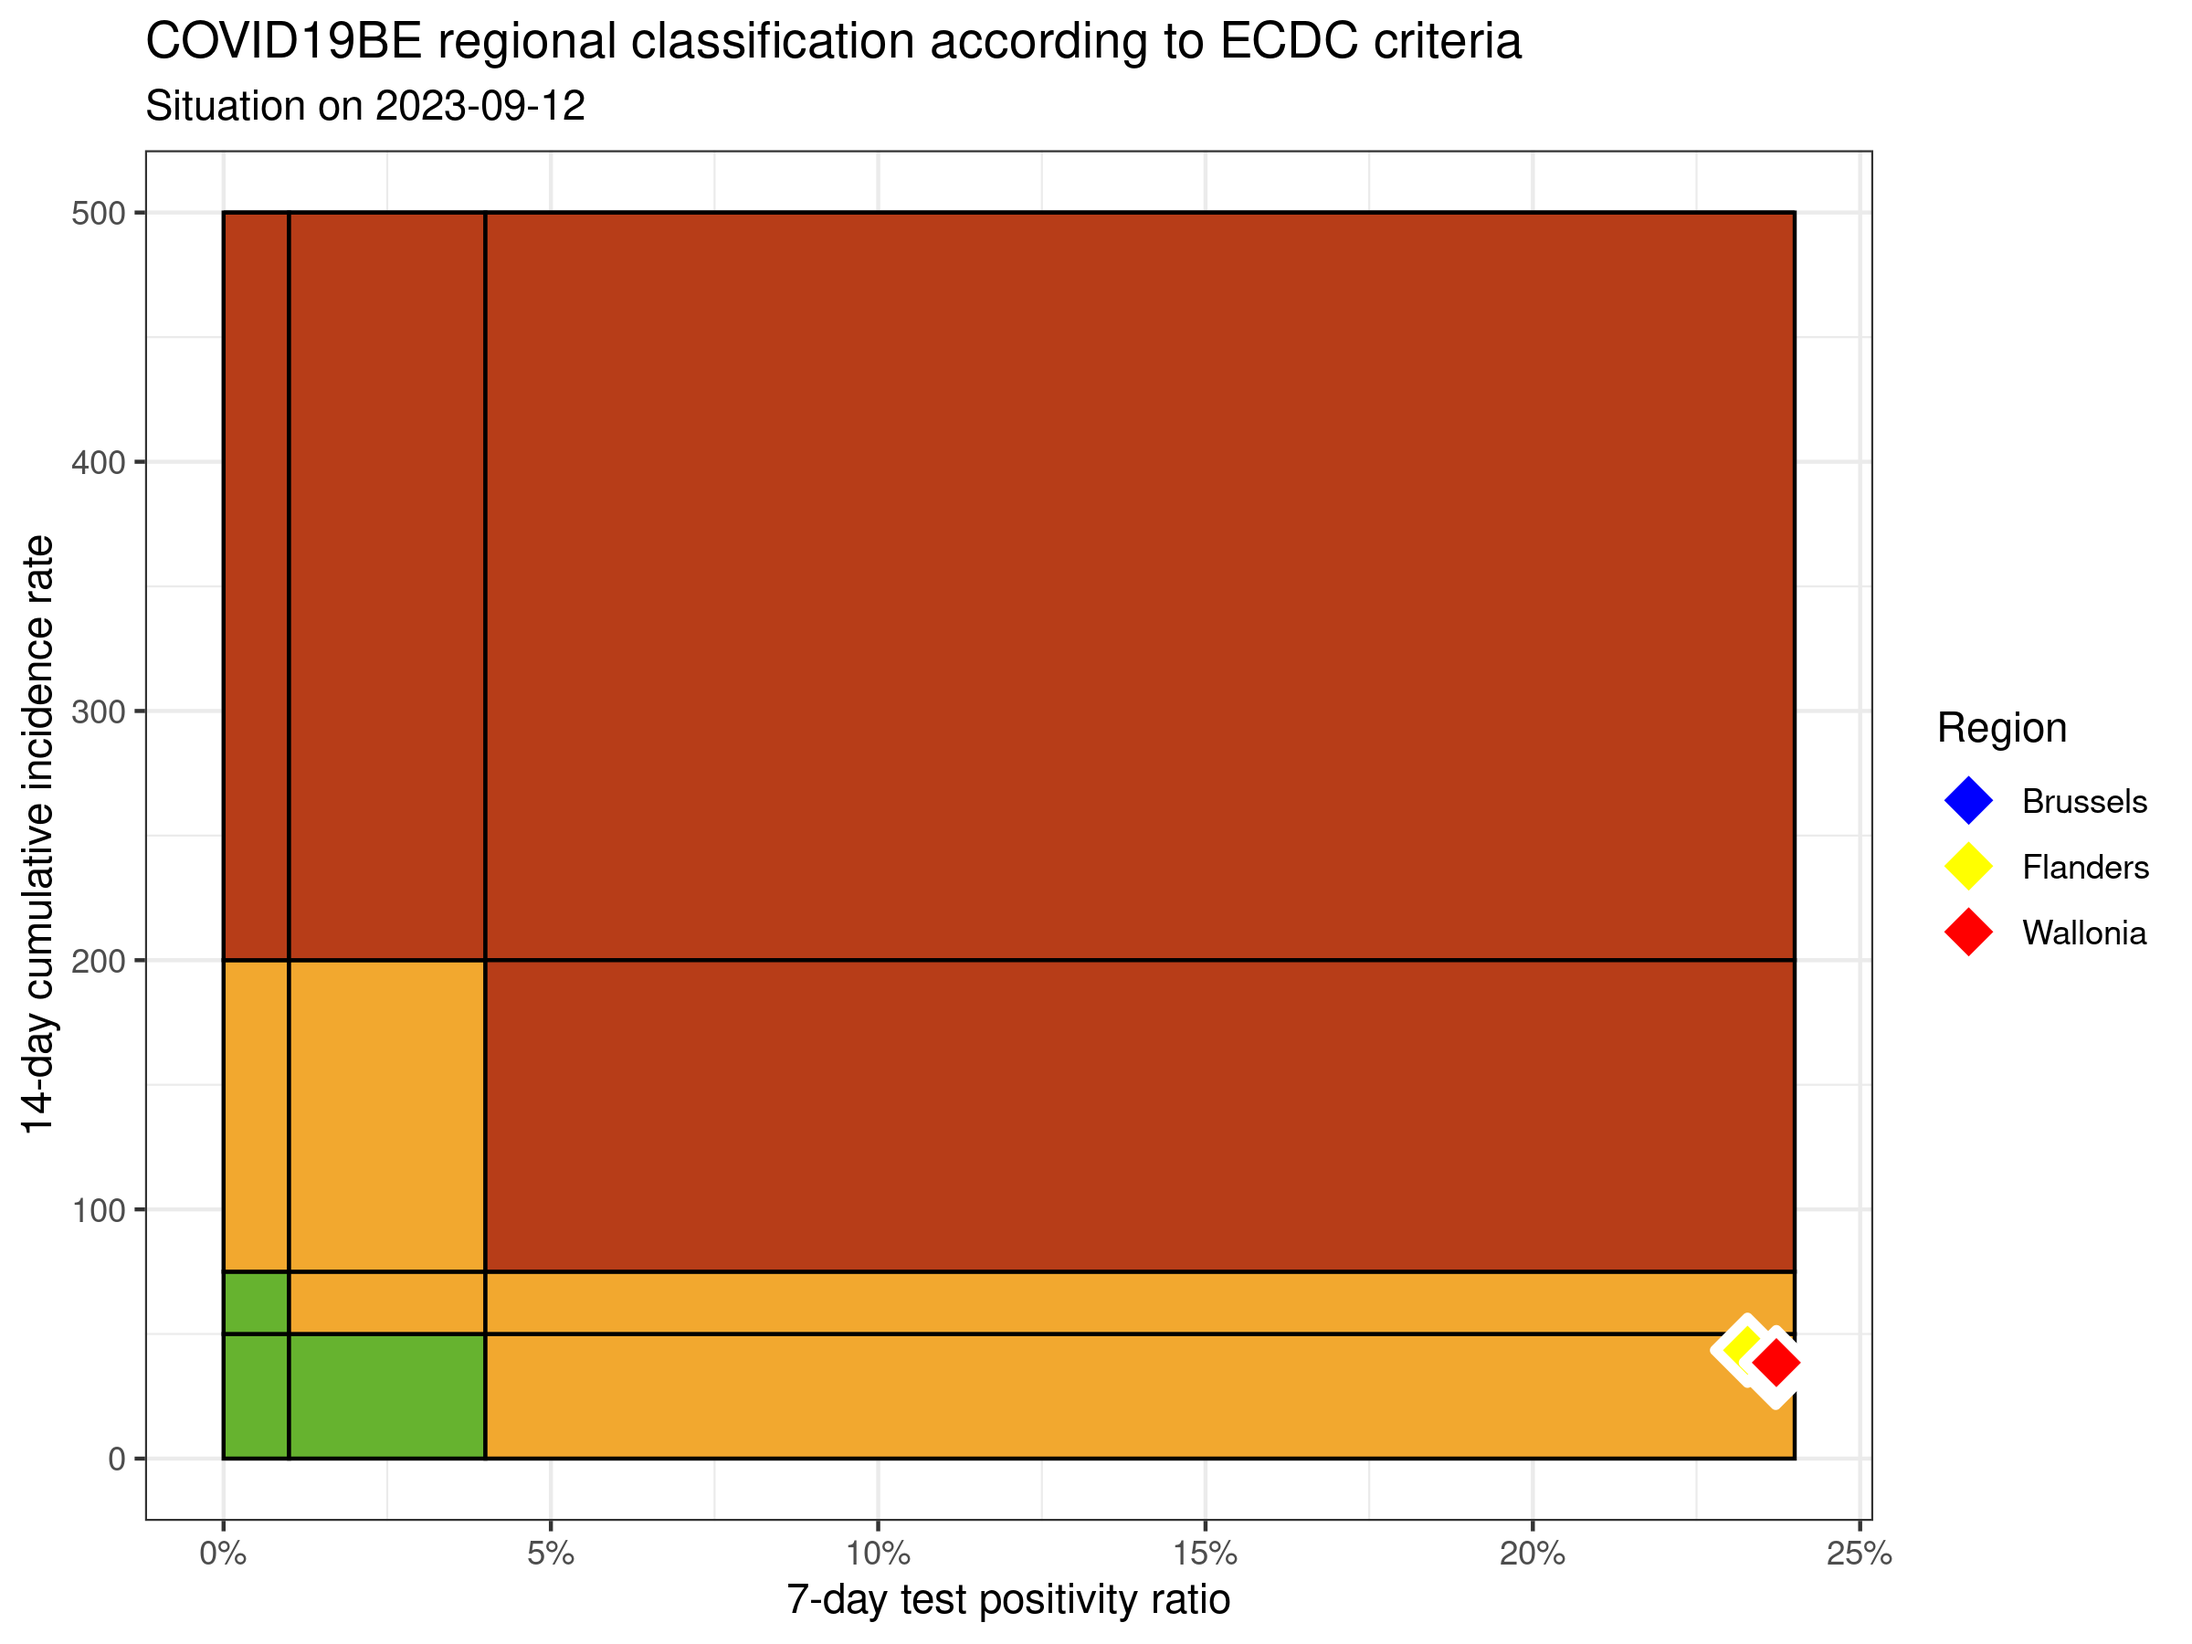
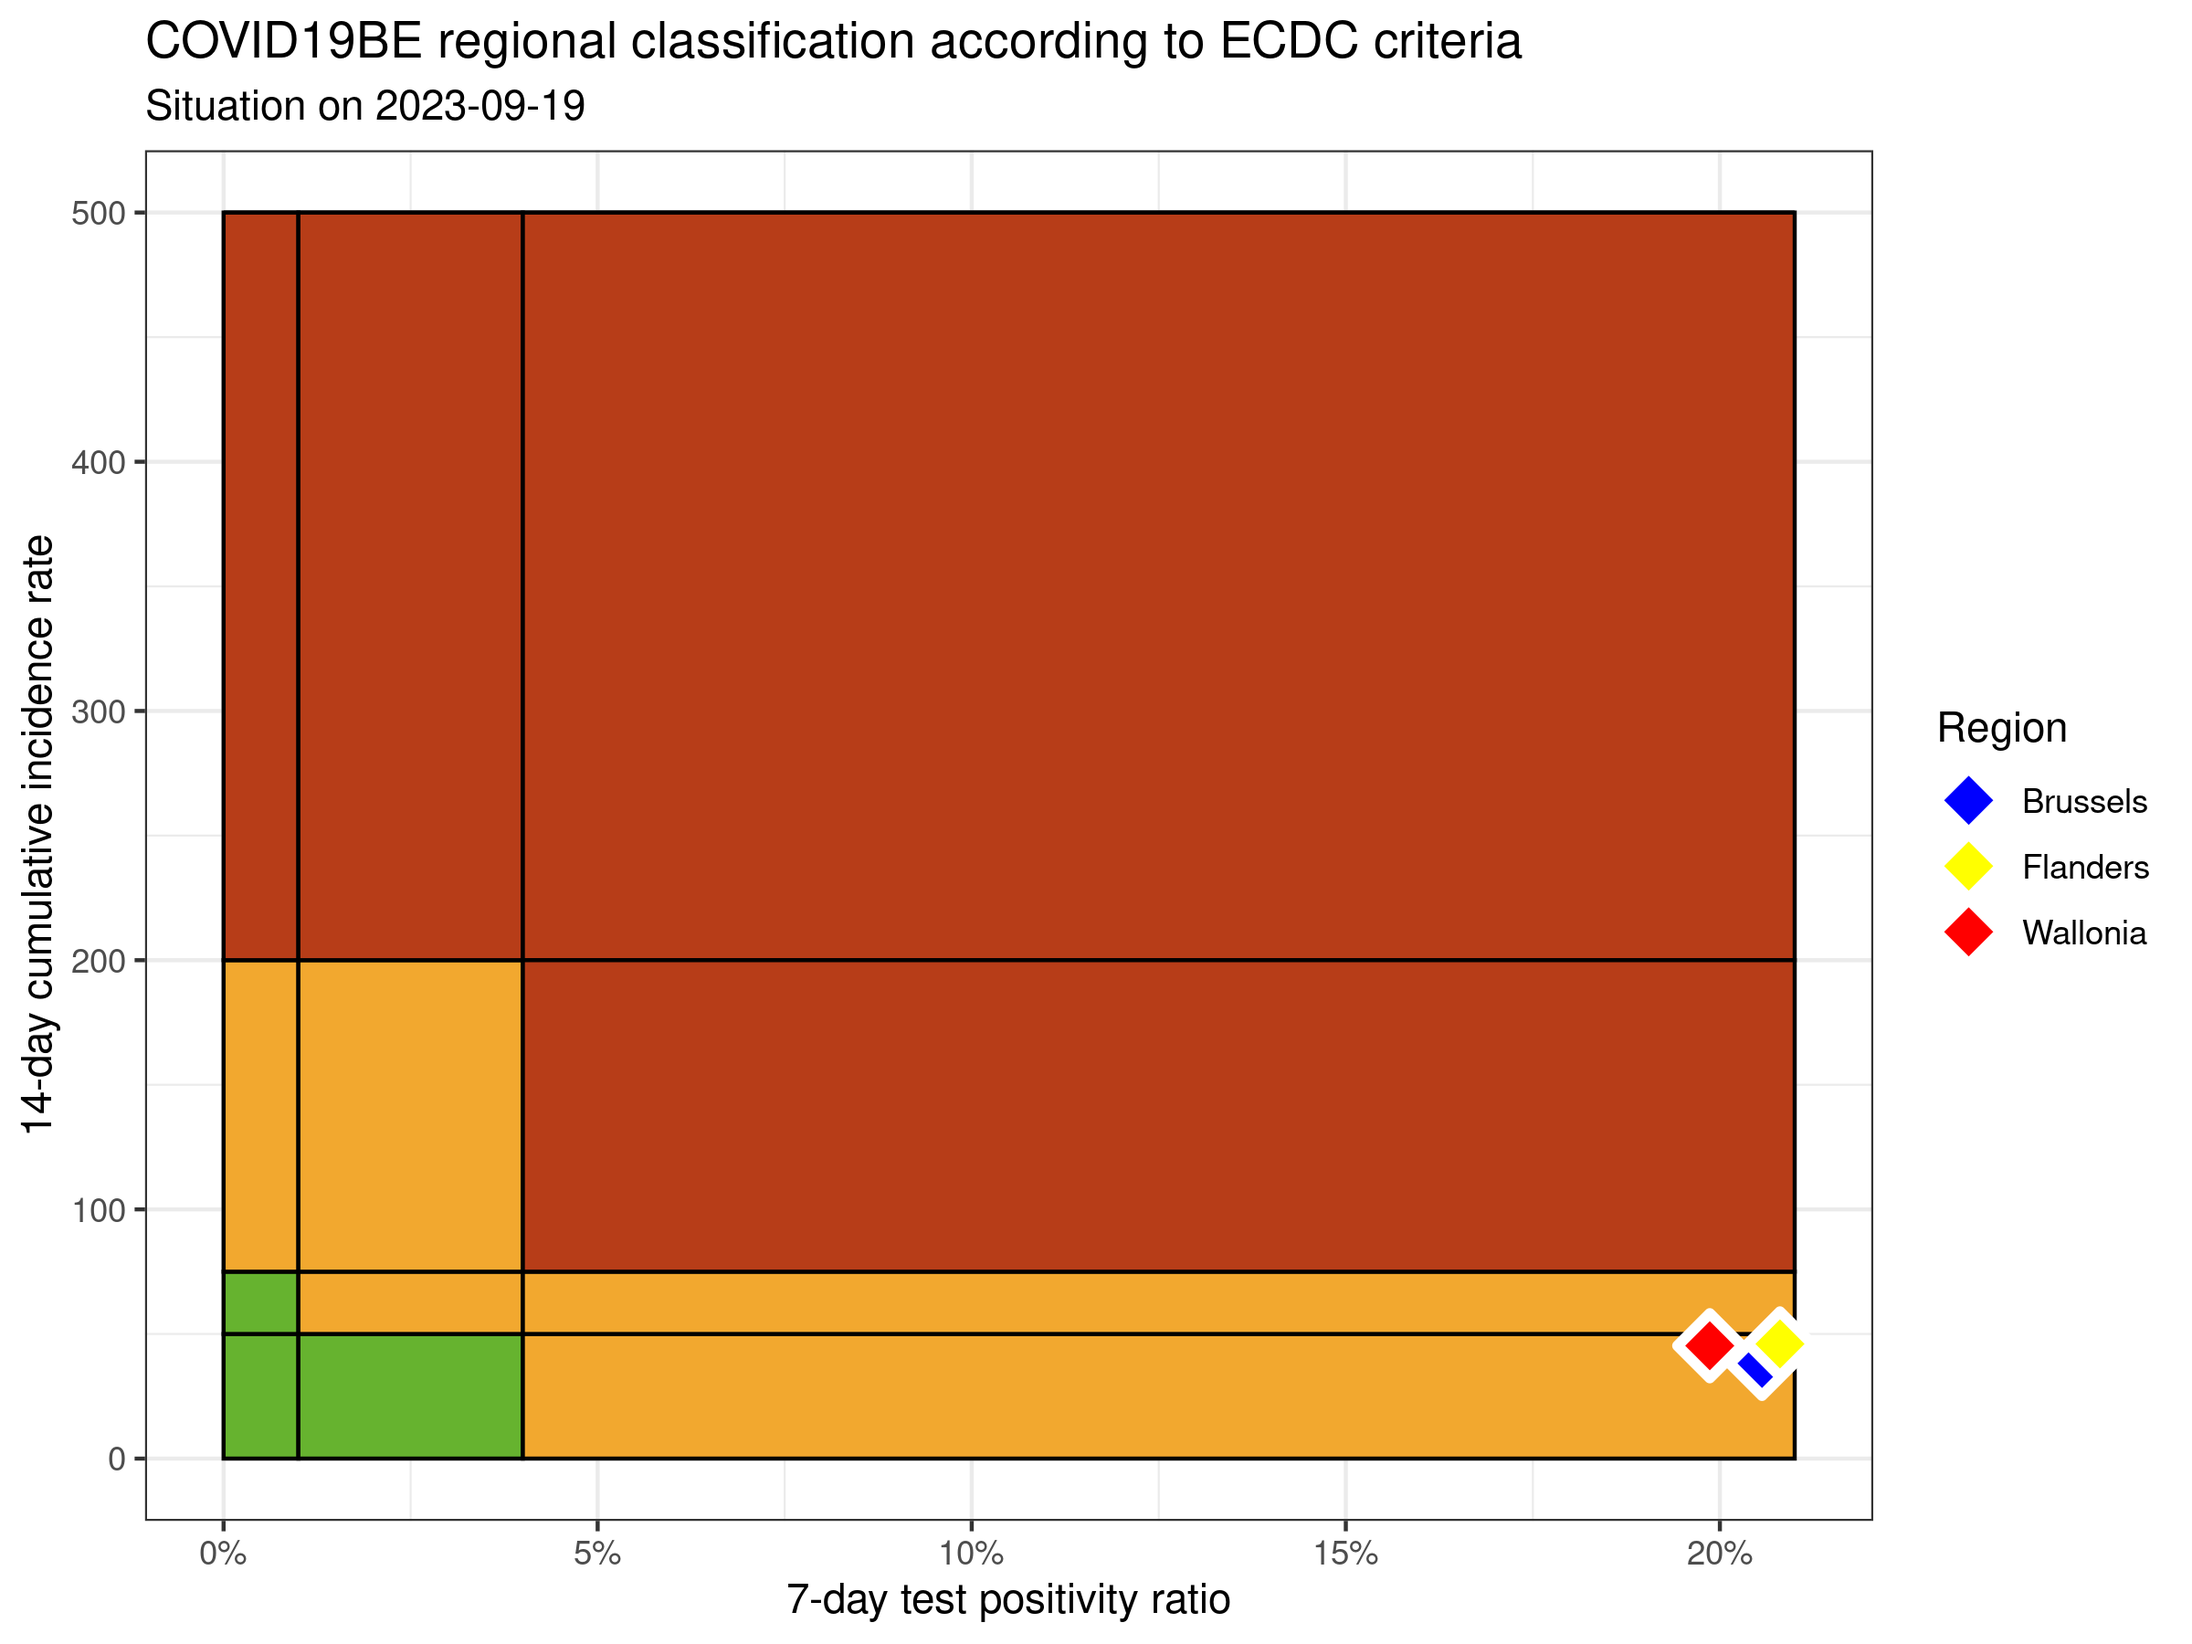
update situation

diff --git a/ecdc-trend/README.md b/ecdc-trend/README.md
@@ -9,11 +9,11 @@
 
 ![](COVID9BE-ecdc-trend.png)
 
-|          | INC14 | INC7 | TST7 | TST\_POS7 | REGION   |     POP | INC14\_RT |       PR7 |        GR |
-| :------- | ----: | ---: | ---: | --------: | :------- | ------: | --------: | --------: | --------: |
-| Brussels |   422 |  240 | 1105 |       262 | Brussels | 1219970 |  34.59101 | 0.2371041 | 0.3186813 |
-| Flanders |  2892 | 1601 | 7410 |      1725 | Flanders | 6653062 |  43.46871 | 0.2327935 | 0.2401239 |
-| Wallonia |  1405 |  838 | 3887 |       922 | Wallonia | 3648206 |  38.51208 | 0.2372009 | 0.4779541 |
+|          | INC14 | INC7 | TST7 | TST\_POS7 | REGION   |     POP | INC14\_RT |       PR7 |          GR |
+| :------- | ----: | ---: | ---: | --------: | :------- | ------: | --------: | --------: | ----------: |
+| Brussels |   466 |  225 | 1172 |       241 | Brussels | 1219970 |  38.19766 | 0.2056314 | \-0.0663900 |
+| Flanders |  3061 | 1457 | 7720 |      1606 | Flanders | 6653062 |  46.00889 | 0.2080311 | \-0.0916459 |
+| Wallonia |  1652 |  813 | 4440 |       882 | Wallonia | 3648206 |  45.28253 | 0.1986486 | \-0.0309893 |
 
 ### Read more
 
